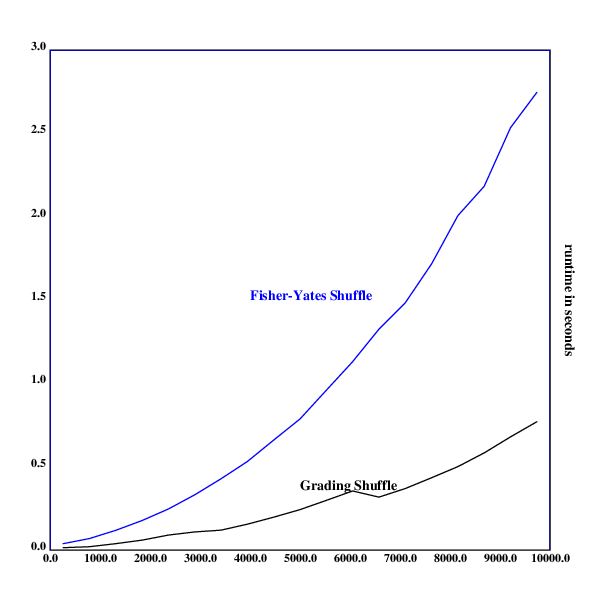
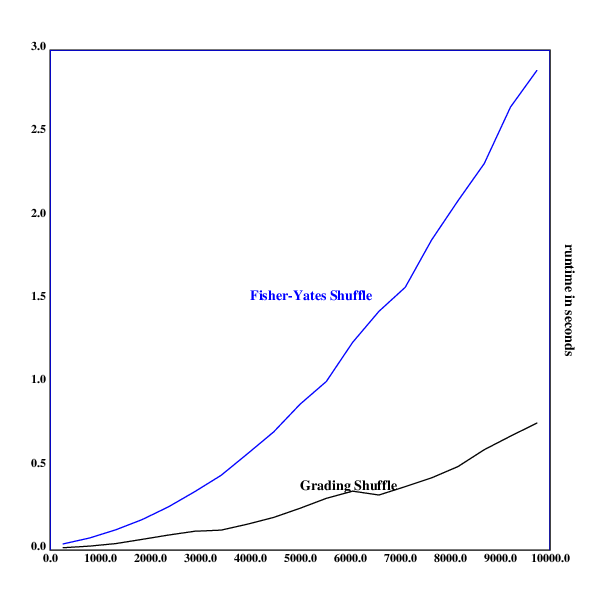
Some small changes.

diff --git a/about.md b/about.md
@@ -133,13 +133,20 @@ For every text, there are several tags attached to it (mainly taken from
 The "author" tag is quite self-explanatory, the field is the original author
 of the piece. This is only relevant for translations and transcriptions.
 
+Similarly, there are two optional tags: "translator" for the person
+who translated the text, and "transcriptor" for the person who transcribed
+the text. The former can be me or a professional translator, the latter
+is always me.
+
 #### Dates
 
-A page has several date tags. The creation date ("created") shows the date
-when the text was first created (if the text is by me) or when the text
-was first published (if the text is by another author). The "modified"
-tag always shows the date of the last modification by me. Both the
-"created" and the "modified" tag are present on every text.
+A page has several date tags. The creation date ("created") shows the
+date when the text was first created (if the text is by me) or when
+the text was first published (if the text is by another author). If it
+is unclear when the text was _first_ published, I give my best estimate
+for the year, and set the date to the first of January of that year. The
+"modified" tag always shows the date of the last modification by me. Both
+the "created" and the "modified" tag are present on every text.
 
 If the text is a translation, the "translated" tag shows the date when
 I started working on the translation. Similarly, the also optional "transcribed" tag
@@ -149,10 +156,19 @@ The date format is [ISO 8601](https://en.wikipedia.org/wiki/ISO_8601),
 rarely using a "-" as a negative sign for a year before the [Common
 Era](https://en.wikipedia.org/wiki/Common_Era).
 
-* [translator "translator"]
-* [transcriptor "transcriptor"]
-* language: {english, german, french, serbocroatian, esperanto, lojban, ithkuil, toki pona}
+#### Language
+
+The language tag shows the language the body of the text is written
+in. Currently, there are only texts in English and German, but the tag
+may be one of the following: {english, german, french, serbocroatian,
+esperanto, lojban, ithkuil, toki pona, latin}
+
+#### Confidence
+
 * confidence {certain, highly likely, likely, possible, unlikely, highly unlikely, remote, impossible, log, fiction, theory, translation, transcription, emotional, other}
+
+#### Status
+
 * status {notes, draft, in progress, finished, abandoned}
 * importance [1;10]
 
@@ -168,7 +184,13 @@ text and limiting line length) and no JavaScript.
 
 ### Influences
 
-* [gwern.net](https://www.gwern.net)
+This site is greatly influenced by several websites: The style
+of organisation and presentation is shamelessly influenced by
+[gwern.net](https://www.gwern.net) (although achieving similar quality in
+content, breadth and depth will be diffficult to achieve). I try to follow
+the concept of [Long Content](https://www.gwern.net/About#long-content)
+and extensive presentation.
+
 * [reducing-suffering.org](https://reducing-suffering.org/)
 * [suckless.org](https://suckless.org)
 * [lesswrong.com](https://lesswrong.com)

diff --git a/99_problems_klong_solution.md b/99_problems_klong_solution.md
@@ -902,7 +902,6 @@ One can now check the performance of the first two functions to find
 out about their runtime behavior (notice that both have similar growth
 behavior at 100K and 10G, respectively).
 
-TODO: Measure `s31.5` as well, I want it to replace the rest.
 
 Measuring runtimes of `s31.1` and generating the graph:
 
@@ -939,13 +938,33 @@ Measuring runtimes of `s31.2` and generating the graph:
 
 ![Runtimes of s31.2](./img/99_klong/runtimes31_2.png)
 
-As one can see, both grow approximately linearly.
+And, finally, I measure the runtimes of `s31.5` and generate the
+corresponding graph:
 
-One can now give a good justification for choosing `s31.2` as the prime
-checking implementation (though it hurts a bit to not shave off a few
-bytes by choosing `s31.1`).
+	.l("nplot")
+	.l("time")
 
-	s31::{:[x<2;0:|[2 3 5]?x;1;&/(x!2,3+2*!_sqr(x)%2)]}
+	s31.5::{:[x=2;1;&/x!:\2_!x]}
+
+	rt::{[a];a::x;time({s31.5(a+_100*.rn())})}'100000+50000*!19
+
+	frame([0 1000000 100000]; [0],(1+_|/rt),[0.5])
+	ytitle("runtime in seconds")
+
+	segplot(rt)
+	text(300;300;"s31.5")
+	draw()
+
+![Runtimes of s31.2](./img/99_klong/runtimes31_5.png)
+
+As one can see, both grow approximately linearly, and `s31.5` is around
+twice as slow as `s31.1`, while having the same growth behavior.
+
+One can now give a good justification for choosing `s31.5` as the prime
+checking implementation (though it hurts a bit to be alot slower than
+`s31.2`, while shaving off a few bits).
+
+	s31::{:[x=2;1;&/x!:\2_!x]}
 	isprime::s31
 
 Tests:
@@ -954,10 +973,15 @@ Tests:
 	1
 		flr(s31;!100)
 	[2 3 5 7 11 13 17 19 23 29 31 37 41 43 47 53 59 61 67 71 73 79 83 89 97]
-		s31(-1)
-	0
+		s3r(-1)
+	kg: error: enumerate: domain error: -1
+		s31(0)
+	[]
+		s31(1)
+	[]
 
-This looks acceptable.
+While it is not perfect to have some odd behavior while being slower,
+this looks acceptable because it is a very short and elegant solution.
 
 ### P32 (**) Determine the greatest common divisor of two positive integer numbers.
 
@@ -1039,6 +1063,7 @@ Tests:
 	s35::{[a v];a::x;v::1;,/{1_(#b1(a;x)):^x}'{(a%2)>*x}{v::v+2;:[[]~(v!x)?0;v,x;x]}:~[2]}
 	b2::{[p a];p::&s31'!1+_x%2;a::x;p@&(#'{b1(a;x)}'p)-1}
 	s35::{:[s31(x);,x;b2(x)]}
+
 	s36::{{(x@1),x@0}'s10(s35(x))}
 	s37::{*/{((x@0)-1)*(x@0)^((x@1)-1)}'s36(x)}
 	s38::{"s34 is faster than s37"}

diff --git a/estimated_life_expectancy.md b/estimated_life_expectancy.md
@@ -3,6 +3,22 @@
 
 *author: niplav, created: 2019-04-10, modified: 2019-06-25, language: english, status: notes, importance: 2, confidence: log*
 
+> __A while ago, I became interested in personal estimations of life
+> expectancy. I wanted to know how accurate people are at estimating their
+> own life expectancy (by checking actuarial tables) and whether accuracy
+> correlates with age or gender. I went out and collected data, which is
+> shared and analysed here.__
+
 Estimated Life Expectancy
 =========================
 
+Abstract
+--------
+
+Data Collection Method
+----------------------
+
+Analysis
+--------
+
+![Scatter plot for all data points](./img/estimated_life_expectancy/all_scatter.png)
